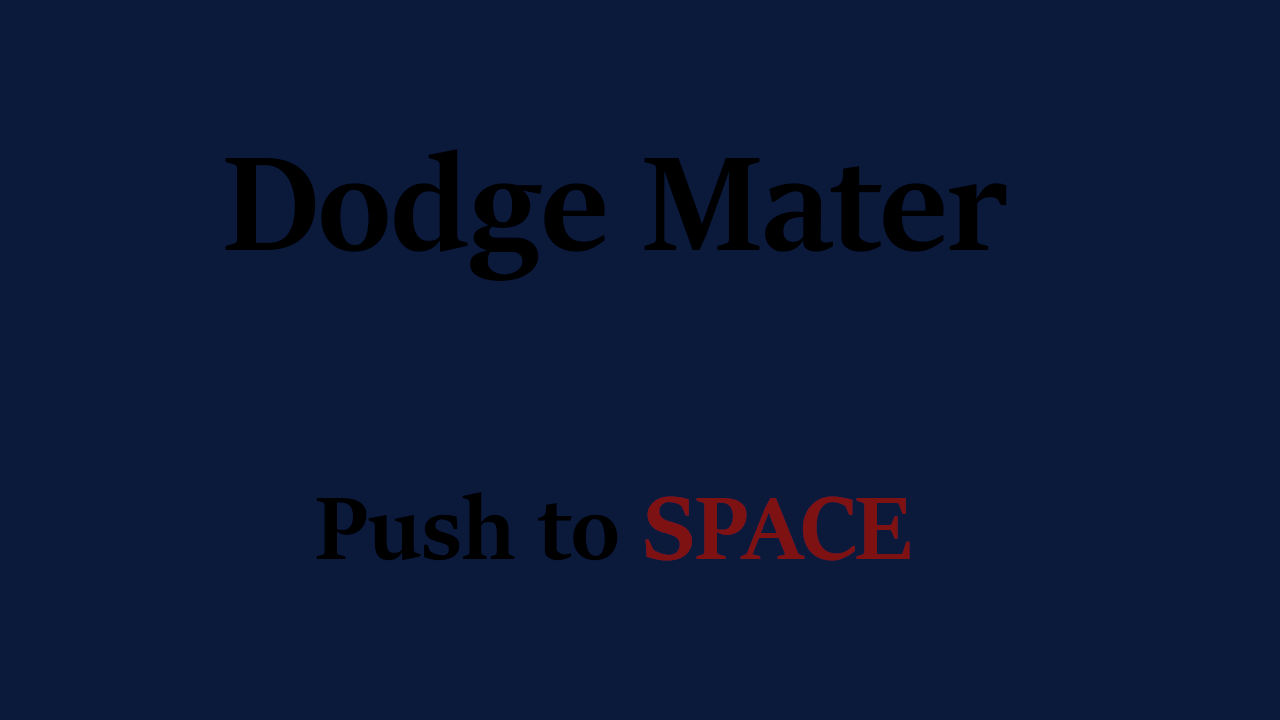
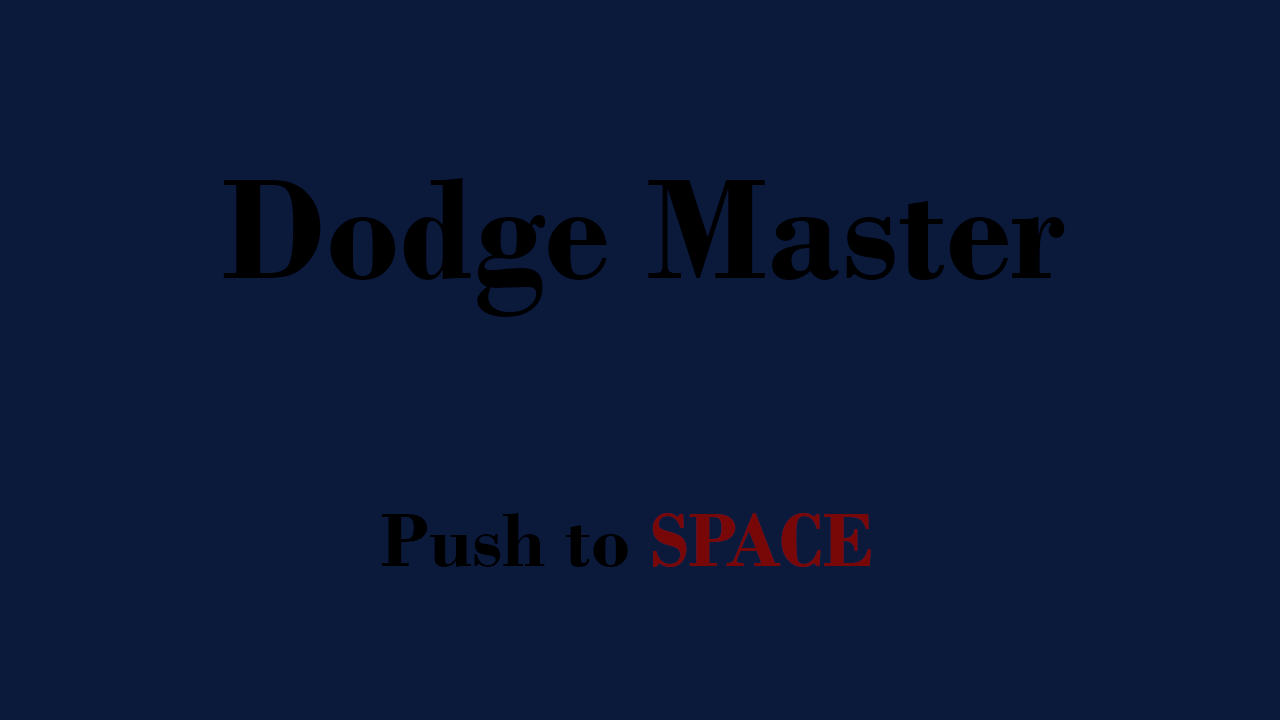
完成

Changed region(s): [[0.1562, 0.2139, 0.4688, 0.4583], [0.25, 0.6722, 0.7188, 0.7944], [0.5, 0.2139, 0.8438, 0.3972]]

diff --git a/main.cpp b/main.cpp
@@ -30,7 +30,7 @@ int WINAPI WinMain(HINSTANCE, HINSTANCE, LPSTR, int) {
 
 	// ゲームウィンドウの作成
 	win = WinApp::GetInstance();
-	win->CreateGameWindow(L"夏休みの課題");
+	win->CreateGameWindow(L"DodgeMaster");
 
 	// DirectX初期化処理
 	dxCommon = DirectXCommon::GetInstance();
